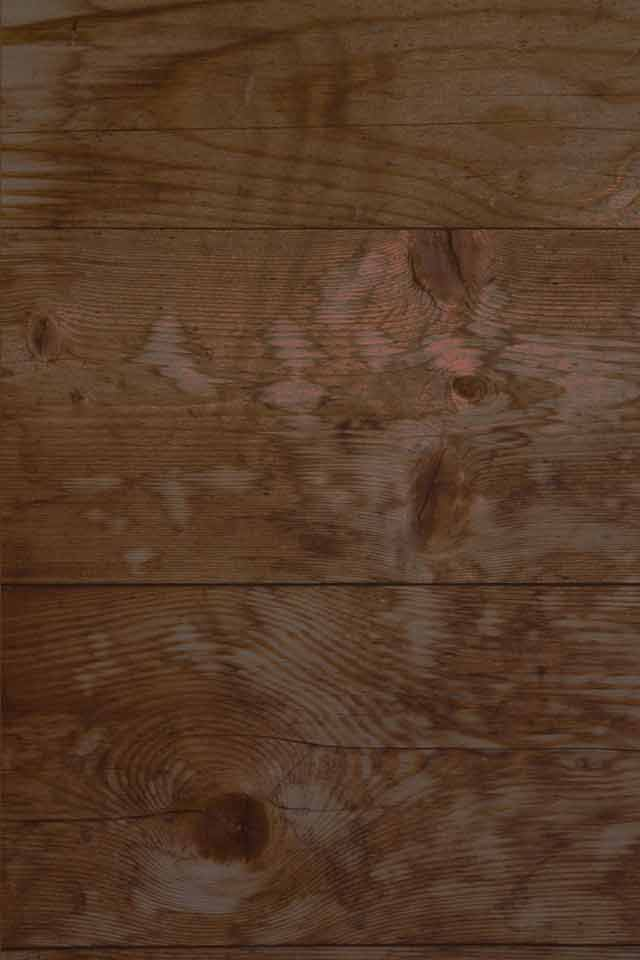
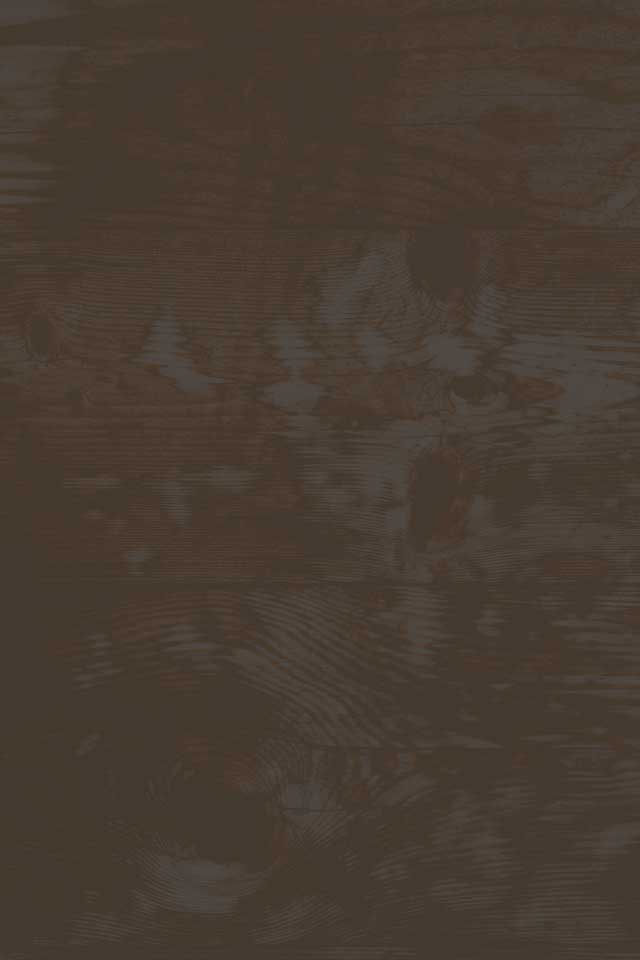
styled login page with single input box

diff --git a/css/rerack.css b/css/rerack.css
@@ -1,13 +1,7 @@
 @import url('reset.css');
 @import url('colorbox.css');
 @import url('jquery.mobile.css');
-body {
-  background: #44392e url(../images/wood-bg.jpg) no-repeat;
-  width: 580px;
-  height: 900px;
-  padding: 10px 20px; }
-
-body, a, p, div, li, h1, h2, td {
+body, a, p, div, li, h1, h2, td, input {
   font-family: "Kreon", Verdana, sans-serif;
   font-weight: regular;
   font-size: 28px;
@@ -22,6 +16,29 @@ a {
 
 td {
   padding: 10px; }
+
+body {
+  background: #44392e url(/images/wood-bg.jpg) no-repeat;
+  width: 580px;
+  height: 900px;
+  padding: 10px 20px; }
+
+body#login {
+  background: #44392e url(/images/login.jpg) no-repeat; }
+  body#login #code-input {
+    position: absolute;
+    top: 545px;
+    left: 130px; }
+    body#login #code-input input {
+      padding: 15px 0 0 20px;
+      width: 450px;
+      height: 64px;
+      background-color: transparent;
+      border: none;
+      font-size: 50px;
+      font-weight: bold;
+      color: #4d3e31;
+      letter-spacing: 54px; }
 
 #top-nav {
   padding: 10px 0; }

diff --git a/css/sass/rerack.sass b/css/sass/rerack.sass
@@ -2,13 +2,7 @@
 @import url('colorbox.css')
 @import url('jquery.mobile.css')
 
-body
-  background: #44392e url(../images/wood-bg.jpg) no-repeat
-  width: 580px
-  height: 900px
-  padding: 10px 20px
-
-body, a, p, div, li, h1, h2, td
+body, a, p, div, li, h1, h2, td, input
   font-family: 'Kreon', Verdana, sans-serif
   font-weight: regular
   font-size: 28px
@@ -22,6 +16,30 @@ a
 
 td
   padding: 10px
+
+body
+  background: #44392e url(/images/wood-bg.jpg) no-repeat
+  width: 580px
+  height: 900px
+  padding: 10px 20px
+
+body#login
+  background: #44392e url(/images/login.jpg) no-repeat
+  #code-input 
+    position: absolute
+    top: 545px
+    left: 130px
+    input
+      padding: 15px 0 0 20px
+      width: 450px
+      height: 64px
+      background-color: transparent
+      border: none
+      font-size: 50px
+      font-weight: bold
+      color: #4d3e31
+      letter-spacing: 54px
+      
   
 #top-nav
   padding: 10px 0

diff --git a/index.php b/index.php
@@ -1,34 +1,20 @@
 <?php require('shared/_head.php'); ?>
 </head>
-  <body>
+  <body id="login">
     <?php 
-      if(isset($_GET['house'])){
-        redirect_to('dashboard.php?house=' . $_GET['house']);
-      } else {
-        if(count($_POST) > 0){
-          $data = $_POST['code'];        
-          $errors = array();
-          if(!empty($data)){
-            $errors[] = 'All fields must be complete.';
-          }
-          redirect_to('dashboard.php?house=' . $data);
-          /*$house = new House();
-          $h = $house->find('code=' . $data);
-          if(!empty($h)){
-            
-            return;
-          } else {
-            $errors[] = "Unable to find house.";
-          }*/
-          print_errors($errors); 
+      if(count($_POST) > 0){
+        $data = $_POST['code'];
+        if(empty($_POST['code'])){
+          print_errors('All fields must be complete.');
+        } else {      
+        redirect_to('dashboard.php?house=' . $data);
         }
       }
     ?>
     <br />
-    <form id="create-form" action="<?php echo $_SERVER['PHP_SELF'] ?>" method="POST">
-      <label class="description" for="name">House Code:</label>
-      <input class="wide" type="text" name="code" id="code" value="<?php echo ene($_POST,'code'); ?>" />
-      <input class="submit_btn" type="submit" name="submit" value="Play" />
+    <form id="code-input" action="<?php echo $_SERVER['PHP_SELF'] ?>" method="POST">
+      <input class="wide" type="text" name="code" id="code" size="5" value="<?php echo ene($_POST,'code'); ?>" />
+      <input class="submit_btn" type="hidden" name="submit" value="Play" />
     </form>
   </body>
 </html>
